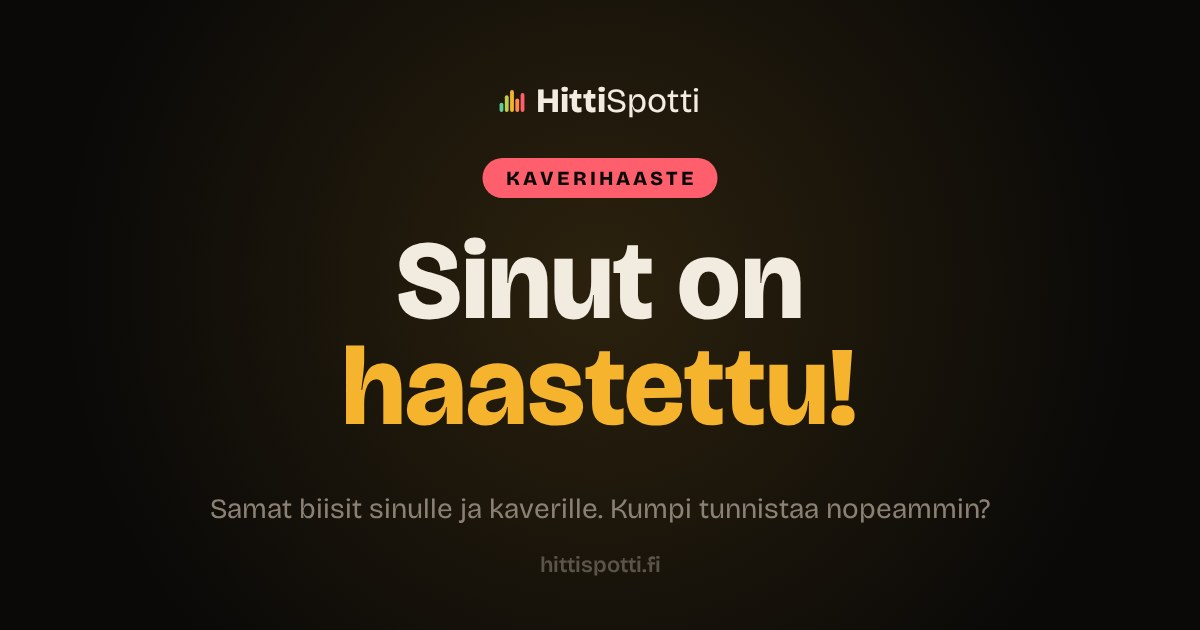
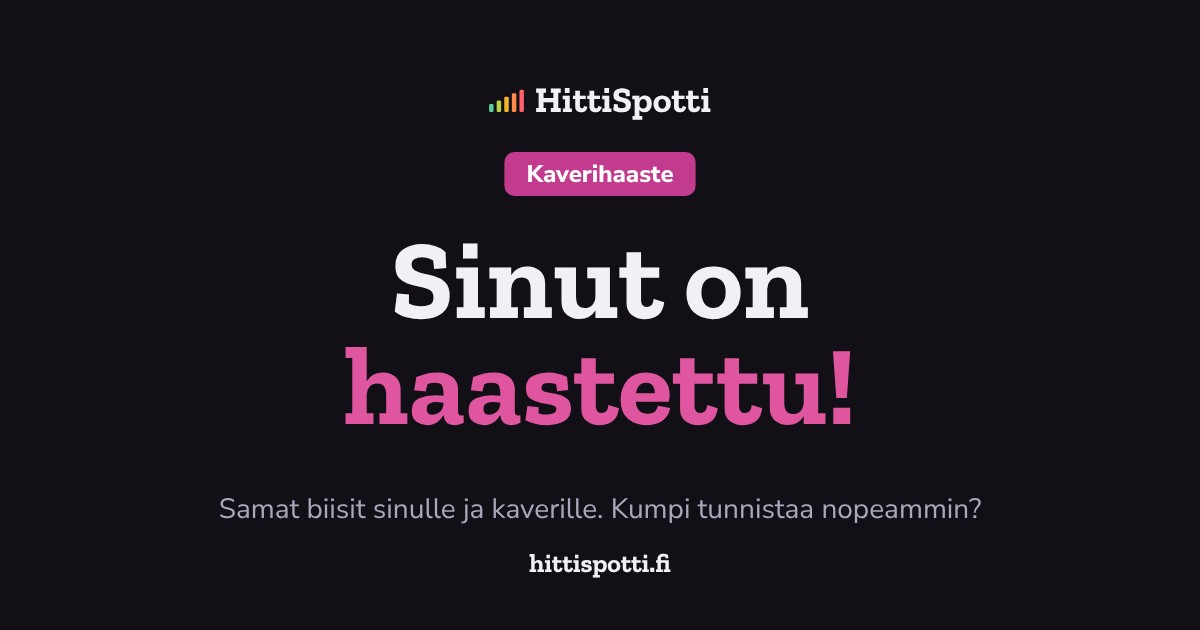
Versio 2.0: Mitä uutta -tiedote ja uudet linkkien esikatselukuvat
Tiedote kertoo uudesta ilmeestä, tummasta ja vaaleasta tilasta,
etusivusta, rajausten uusista paikoista ja haasteen poistosta.
Jakokuva ja haastekuva piirretään uudella ilmeellä.

Claude-Session: https://claude.ai/code/session_0121ZaRWxK9gYVTKwjJaz1Rf

diff --git a/scripts/tee_jakokuva.js b/scripts/tee_jakokuva.js
@@ -20,8 +20,9 @@
  * vaihtui 1953:sta 1949:ään kun Tapsan vuosi korjattiin, eikä se ollut
  * kenenkään mielessä kuvan kannalta.
  *
- * Ulkoasu on sama kuin aiemmassa kuvassa pikselilleen: sama hehku,
- * sanamerkki, otsikko ja pillerit. Muuttuvat vain luvut.
+ * Ulkoasu seuraa pelin ilmettä: tumma pohja, Zilla Slab -otsikot,
+ * Nunito Sans -teksti, tason värinen soitin ja sarjan viisi ruutua
+ * tasopalkkeineen.
  *
  * Canvas eikä HTML-sivun kuvakaappaus, koska canvasissa jokaisen
  * elementin paikka on luku eikä asettelun tulos: kuva pysyy samana vaikka
@@ -51,94 +52,107 @@ function luvut() {
 const tuhannet = (n) => String(n).replace(/\B(?=(\d{3})+(?!\d))/g, " ");
 
 function fonttiCss() {
-  return ["bricolage-latin.woff2", "bricolage-latin-ext.woff2"].map((tiedosto) => {
+  const tiedostot = [
+    ["Zilla Slab", "700", "zilla-slab-700-latin.woff2"],
+    ["Zilla Slab", "700", "zilla-slab-700-latin-ext.woff2"],
+    ["Nunito Sans", "400 800", "nunito-sans-latin.woff2"],
+    ["Nunito Sans", "400 800", "nunito-sans-latin-ext.woff2"],
+  ];
+  return tiedostot.map(([nimi, paino, tiedosto]) => {
     const data = fs.readFileSync(path.join(JUURI, "fonts", tiedosto)).toString("base64");
-    return `@font-face { font-family: "Bricolage Grotesque"; font-weight: 400 800;
+    return `@font-face { font-family: "${nimi}"; font-weight: ${paino};
       src: url(data:font/woff2;base64,${data}) format("woff2"); }`;
   }).join("\n");
 }
+
+/* Yhteiset piirtoapurit sivun sisällä. Merkkijonona, koska evaluate ajaa
+ * ne selaimessa. */
+const APURIT = `
+  const S = '"Zilla Slab", serif', T = '"Nunito Sans", sans-serif';
+  const TV = ["#5ecf9a", "#bcd14a", "#f5b32e", "#ff8a4c", "#ff5f6d"];
+  async function lataaFontit() {
+    await document.fonts.load("700 40px " + S);
+    for (const p of [400, 700, 800]) await document.fonts.load(p + " 40px " + T);
+    await document.fonts.ready;
+    return document.fonts.check("700 40px " + S) && document.fonts.check("800 40px " + T);
+  }
+  // Tasomittari: viisi nousevaa palkkia, tason verran täysiä.
+  function mittari(g, x, y, korkeus, taso, vari) {
+    const lev = korkeus * .2, vali = korkeus * .14;
+    for (let i = 0; i < 5; i++) {
+      const h = korkeus * (.36 + i * .16);
+      g.globalAlpha = i < taso ? 1 : .28;
+      g.fillStyle = vari;
+      g.beginPath(); g.roundRect(x + i * (lev + vali), y + korkeus - h, lev, h, lev * .3); g.fill();
+    }
+    g.globalAlpha = 1;
+    return 5 * lev + 4 * vali;
+  }
+  function sanamerkki(g, x, y, koko, keskelle) {
+    g.font = "700 " + koko + "px " + S;
+    const tw = g.measureText("HittiSpotti").width, mk = koko * .62, vali = koko * .3;
+    const mw = mk * (5 * .2 + 4 * .14);
+    if (keskelle) x -= (mw + vali + tw) / 2;
+    // Merkissä jokainen palkki omalla tasovärillään.
+    for (let i = 0; i < 5; i++) {
+      const lev = mk * .2, v = mk * .14, h = mk * (.36 + i * .16);
+      g.fillStyle = TV[i]; g.beginPath(); g.roundRect(x + i * (lev + v), y - h, lev, h, lev * .3); g.fill();
+    }
+    g.fillStyle = "#f2f0f7"; g.textAlign = "left";
+    g.fillText("HittiSpotti", x + mw + vali, y);
+  }
+`;
 
 async function piirra(alateksti) {
   const selain = await chromium.launch();
   const sivu = await selain.newPage({ viewport: { width: 1200, height: 630 } });
   await sivu.setContent(`<!doctype html><meta charset="utf-8"><style>${fonttiCss()}</style>`);
+  await sivu.addScriptTag({ content: APURIT });
   const kuva = await sivu.evaluate(async (alateksti) => {
-    const N = '"Bricolage Grotesque", sans-serif';
-    // Jokainen paksuus ladataan erikseen: canvas ei odota fonttia itse, ja
-    // lataamaton paksuus piirtyisi hiljaa varafontilla.
-    for (const paksuus of [400, 600, 800]) await document.fonts.load(`${paksuus} 40px ${N}`);
-    await document.fonts.ready;
-
+    const fontti = await lataaFontit();
     const W = 1200, H = 630, R = 88;
     const c = document.createElement("canvas");
     c.width = W; c.height = H;
     const g = c.getContext("2d");
-    g.fillStyle = "#0a0908"; g.fillRect(0, 0, W, H);
-
-    // Sama hehku kuin sivulla, soivan biisin värissä.
-    const hehku = g.createRadialGradient(W * .5, H * .34, 0, W * .5, H * .34, W * .5);
-    hehku.addColorStop(0, "rgba(245,179,46,0.13)");
-    hehku.addColorStop(1, "rgba(245,179,46,0)");
-    g.fillStyle = hehku; g.fillRect(0, 0, W, H);
+    g.fillStyle = "#121016"; g.fillRect(0, 0, W, H);
     g.textBaseline = "alphabetic";
 
-    // Sanamerkki: sama viiden palkin aaltomuoto kuin favicon.svg:ssä.
-    const TV = ["#5ecf9a", "#bcd14a", "#f5b32e", "#ff8a4c", "#ff5f6d"];
-    const MH = [19.6, 34.8, 46, 28.4, 39.6];
-    const mk = 26 / 46;
-    g.lineCap = "round"; g.lineWidth = 8 * mk;
-    MH.forEach((h, i) => {
-      const kx = R + (i * 11 + 4) * mk;
-      g.strokeStyle = TV[i];
-      g.beginPath();
-      g.moveTo(kx, 165 - 4 * mk);
-      g.lineTo(kx, 165 - (h - 4) * mk);
-      g.stroke();
-    });
-    const MX = R + 52 * mk + 14;
-    g.font = `800 40px ${N}`; g.fillStyle = "#f2ebdf";
-    g.fillText("Hitti", MX, 165);
-    const lev = g.measureText("Hitti").width;
-    g.font = `400 40px ${N}`; g.fillText("Spotti", MX + lev, 165);
+    sanamerkki(g, R, 132, 40, false);
 
-    // Otsikko
-    g.font = `800 78px ${N}`;
-    g.fillStyle = "#f2ebdf"; g.fillText("Tunnistatko biisin ", R, 288);
-    const w1 = g.measureText("Tunnistatko biisin ").width;
-    g.fillStyle = "#f5b32e"; g.fillText("0,1", R + w1, 288);
-    g.fillText("sekunnista?", R, 372);
+    // Otsikko slabilla, 0,1 tason vihreällä.
+    g.font = `700 72px ${S}`;
+    g.fillStyle = "#f2f0f7"; g.fillText("Tunnistatko biisin", R, 258);
+    g.font = `800 72px ${T}`; g.fillStyle = "#5ecf9a"; g.fillText("0,1", R, 338);
+    const w1 = g.measureText("0,1 ").width;
+    g.font = `700 72px ${S}`; g.fillStyle = "#f2f0f7"; g.fillText("sekunnista?", R + w1, 338);
 
-    // Alaotsikko ja luvut
-    g.font = `400 30px ${N}`; g.fillStyle = "#8a8073";
-    g.fillText("Musiikkivisa suomalaisilla biiseillä.", R, 448);
-    g.fillText("Uudet viisi joka päivä.", R, 488);
-    g.font = `400 22px ${N}`; g.fillStyle = "#5b544a";
+    g.font = `400 30px ${T}`; g.fillStyle = "#ada7bd";
+    g.fillText("Musiikkivisa suomalaisilla biiseillä.", R, 414);
+    g.fillText("Viisi uutta biisiä joka päivä.", R, 454);
+    g.font = `700 24px ${T}`; g.fillStyle = "#9c96ad";
     g.fillText(alateksti, R, 552);
 
-    // Pillerit oikeaan alanurkkaan
-    const pillerit = [["Helppo", "#5ecf9a", true], ["Vaikea", "#8a8073", false],
-                      ["Mahdoton", "#ff5f6d", false]];
-    g.font = `600 22px ${N}`;
-    let x = W - R;
-    for (const [teksti, vari, tayte] of pillerit.slice().reverse()) {
-      const tw = g.measureText(teksti).width, pw = tw + 48, y = 512, ph = 46;
-      x -= pw;
-      g.beginPath();
-      g.roundRect(x, y, pw, ph, 999);
-      if (tayte) { g.fillStyle = vari; g.fill(); g.fillStyle = "#17120a"; }
-      else { g.strokeStyle = vari; g.lineWidth = 2; g.stroke(); g.fillStyle = vari; }
-      g.fillText(teksti, x + 24, y + 31);
-      x -= 16;
-    }
+    // Soitin oikealla: tason värinen nappi ja sen tummempi reuna.
+    const KX = 935, KY = 268, KR = 142;
+    g.fillStyle = "#3a8a66"; g.beginPath(); g.arc(KX, KY + 14, KR, 0, Math.PI * 2); g.fill();
+    g.fillStyle = "#5ecf9a"; g.beginPath(); g.arc(KX, KY, KR, 0, Math.PI * 2); g.fill();
+    g.fillStyle = "#15121a"; g.beginPath();
+    g.moveTo(KX - 34, KY - 56); g.lineTo(KX + 60, KY); g.lineTo(KX - 34, KY + 56); g.closePath(); g.fill();
 
-    // Tarkistus: jos fontti ei latautunut, "Hitti" mitataan varafontilla ja
-    // leveys poikkeaa. Parempi kaatua kuin julkaista väärällä fontilla.
-    g.font = `800 40px ${N}`;
-    const varmistus = document.fonts.check(`800 40px ${N}`);
-    return { data: c.toDataURL("image/jpeg", 0.88), fontti: varmistus };
+    // Sarjan viisi ruutua tasopalkkeineen soittimen alla.
+    const rw = 62, rh = 50, rv = 10, rx0 = KX - (5 * rw + 4 * rv) / 2, ry = 476;
+    for (let i = 0; i < 5; i++) {
+      const x = rx0 + i * (rw + rv);
+      g.beginPath(); g.roundRect(x, ry, rw, rh, 10);
+      if (i === 0) { g.fillStyle = TV[0]; g.fill(); }
+      else { g.strokeStyle = TV[i]; g.lineWidth = 3; g.stroke(); }
+      const mw = 5 * 4.8 + 4 * 3.4;
+      mittari(g, x + (rw - mw) / 2, ry + 13, 24, i + 1, i === 0 ? "#15121a" : TV[i]);
+    }
+    return { data: c.toDataURL("image/jpeg", 0.9), fontti };
   }, alateksti);
   await selain.close();
-  if (!kuva.fontti) throw new Error("Bricolage Grotesque ei latautunut, kuvaa ei tallennettu");
+  if (!kuva.fontti) throw new Error("Kirjasimet eivät latautuneet, kuvaa ei tallennettu");
   return Buffer.from(kuva.data.split(",")[1], "base64");
 }
 
@@ -157,64 +171,32 @@ async function piirraHaaste() {
   const selain = await chromium.launch();
   const sivu = await selain.newPage({ viewport: { width: 1200, height: 630 } });
   await sivu.setContent(`<!doctype html><meta charset="utf-8"><style>${fonttiCss()}</style>`);
+  await sivu.addScriptTag({ content: APURIT });
   const kuva = await sivu.evaluate(async () => {
-    const N = '"Bricolage Grotesque", sans-serif';
-    for (const paksuus of [400, 600, 800]) await document.fonts.load(`${paksuus} 40px ${N}`);
-    await document.fonts.ready;
-
+    const fontti = await lataaFontit();
     const W = 1200, H = 630, KX = W / 2, NELIO = 600;
     const c = document.createElement("canvas");
     c.width = W; c.height = H;
     const g = c.getContext("2d");
-    g.fillStyle = "#0a0908"; g.fillRect(0, 0, W, H);
-    const hehku = g.createRadialGradient(KX, H * .45, 0, KX, H * .45, W * .45);
-    hehku.addColorStop(0, "rgba(245,179,46,0.14)");
-    hehku.addColorStop(1, "rgba(245,179,46,0)");
-    g.fillStyle = hehku; g.fillRect(0, 0, W, H);
+    g.fillStyle = "#121016"; g.fillRect(0, 0, W, H);
     g.textBaseline = "alphabetic";
 
-    // Sanamerkki keskelle: palkit ja nimi yhtenä rivinä.
-    const TV = ["#5ecf9a", "#bcd14a", "#f5b32e", "#ff8a4c", "#ff5f6d"];
-    const MH = [19.6, 34.8, 46, 28.4, 39.6];
-    const mk = 22 / 46, Y = 112;
-    g.font = `800 34px ${N}`;
-    const hitti = g.measureText("Hitti").width;
-    g.font = `400 34px ${N}`;
-    const spotti = g.measureText("Spotti").width;
-    const merkinLeveys = 52 * mk, vali = 12;
-    let x = KX - (merkinLeveys + vali + hitti + spotti) / 2;
-    g.lineCap = "round"; g.lineWidth = 8 * mk;
-    MH.forEach((h, i) => {
-      const kx = x + (i * 11 + 4) * mk;
-      g.strokeStyle = TV[i];
-      g.beginPath();
-      g.moveTo(kx, Y - 4 * mk);
-      g.lineTo(kx, Y - (h - 4) * mk);
-      g.stroke();
-    });
-    x += merkinLeveys + vali;
-    g.fillStyle = "#f2ebdf";
-    g.font = `800 34px ${N}`; g.fillText("Hitti", x, Y);
-    g.font = `400 34px ${N}`; g.fillText("Spotti", x + hitti, Y);
+    sanamerkki(g, KX, 112, 36, true);
 
-    // Pilleri: sama punainen kuin valikon uutta-merkissä.
+    // Merkki kaverihaasteen magentalla, kuten pelin valikossa.
     g.textAlign = "center";
-    g.font = `800 20px ${N}`;
-    g.letterSpacing = "3px";
-    const pTeksti = "KAVERIHAASTE";
-    const pw = g.measureText(pTeksti).width + 44, ph = 40, py = 158;
-    g.beginPath();
-    g.roundRect(KX - pw / 2, py, pw, ph, 999);
-    g.fillStyle = "#ff5f6d"; g.fill();
-    g.fillStyle = "#0a0908";
-    g.fillText(pTeksti, KX + 1.5, py + 27);
-    g.letterSpacing = "0px";
+    g.font = `800 24px ${T}`;
+    const pTeksti = "Kaverihaaste";
+    const pw = g.measureText(pTeksti).width + 44, ph = 44, py = 152;
+    g.beginPath(); g.roundRect(KX - pw / 2, py, pw, ph, 10);
+    g.fillStyle = "#c23b8f"; g.fill();
+    g.fillStyle = "#ffffff"; g.fillText(pTeksti, KX, py + 30);
 
     // Otsikko: pienennetään kunnes pisin rivi mahtuu keskineliöön.
     let koko = 112;
-    const rivit = [["Sinut on", "#f2ebdf"], ["haastettu!", "#f5b32e"]];
+    const rivit = [["Sinut on", "#f2f0f7"], ["haastettu!", "#e0559f"]];
     for (;;) {
-      g.font = `800 ${koko}px ${N}`;
+      g.font = `700 ${koko}px ${S}`;
       const levein = Math.max(...rivit.map(([t]) => g.measureText(t).width));
       if (levein <= NELIO - 40 || koko <= 60) break;
       koko -= 2;
@@ -222,21 +204,20 @@ async function piirraHaaste() {
     g.fillStyle = rivit[0][1]; g.fillText(rivit[0][0], KX, 318);
     g.fillStyle = rivit[1][1]; g.fillText(rivit[1][0], KX, 318 + koko * 0.95);
 
-    g.font = `400 28px ${N}`; g.fillStyle = "#8a8073";
+    g.font = `400 28px ${T}`; g.fillStyle = "#ada7bd";
     g.fillText("Samat biisit sinulle ja kaverille. Kumpi tunnistaa nopeammin?", KX, 518);
-    g.font = `600 22px ${N}`; g.fillStyle = "#5b544a";
+    g.font = `700 26px ${S}`; g.fillStyle = "#f2f0f7";
     g.fillText("hittispotti.fi", KX, 572);
-
-    return { data: c.toDataURL("image/jpeg", 0.88), fontti: document.fonts.check(`800 40px ${N}`) };
+    return { data: c.toDataURL("image/jpeg", 0.9), fontti };
   });
   await selain.close();
-  if (!kuva.fontti) throw new Error("Bricolage Grotesque ei latautunut, kuvaa ei tallennettu");
+  if (!kuva.fontti) throw new Error("Kirjasimet eivät latautuneet, kuvaa ei tallennettu");
   return Buffer.from(kuva.data.split(",")[1], "base64");
 }
 
 (async () => {
   const { maara, alku, loppu } = luvut();
-  const alateksti = `${tuhannet(maara)} suomibiisiä · ${alku}–${loppu}`;
+  const alateksti = `${tuhannet(maara)} suomibiisiä vuosilta ${alku}–${loppu}`;
   const kohde = path.join(JUURI, "jakokuva.jpg");
   fs.writeFileSync(kohde, await piirra(alateksti));
   console.log(`jakokuva.jpg: "${alateksti}", ${Math.round(fs.statSync(kohde).size / 1024)} kt`);

diff --git a/index.html b/index.html
@@ -30,7 +30,7 @@
        Ilman tätä päivitetty kuva (scripts/tee_jakokuva.js) ei näkyisi
        jaetuissa linkeissä, vaan vanha luku jäisi elämään välimuisteihin.
        Numero kulkee muiden ?v=-merkintöjen mukana julkaisussa. -->
-  <meta property="og:image" content="https://hittispotti.fi/jakokuva.jpg?v=250">
+  <meta property="og:image" content="https://hittispotti.fi/jakokuva.jpg?v=251">
   <meta property="og:image:type" content="image/jpeg">
   <meta property="og:image:width" content="1200">
   <meta property="og:image:height" content="630">
@@ -41,18 +41,18 @@
        kuvakkeesta kiinni omassa välimuistissaan sitkeämmin kuin mistään
        muusta, eikä pelkkä uusi tiedostosisältö samassa osoitteessa riitä
        vaihtamaan sitä. -->
-  <link rel="icon" href="favicon.svg?v=250" type="image/svg+xml">
+  <link rel="icon" href="favicon.svg?v=251" type="image/svg+xml">
   <!-- iOS ei tue SVG:tä kotinäytön kuvakkeena: SVG:llä se otti sivusta
        ruudunkaappauksen kuvakkeen sijaan. 180 px on iPhonen koko. -->
-  <link rel="apple-touch-icon" sizes="180x180" href="icon-180.png?v=250">
-  <link rel="icon" type="image/png" sizes="192x192" href="icon-192.png?v=250">
-  <link rel="manifest" href="manifest.webmanifest?v=250">
+  <link rel="apple-touch-icon" sizes="180x180" href="icon-180.png?v=251">
+  <link rel="icon" type="image/png" sizes="192x192" href="icon-192.png?v=251">
+  <link rel="manifest" href="manifest.webmanifest?v=251">
   <meta name="apple-mobile-web-app-capable" content="yes">
   <meta name="apple-mobile-web-app-status-bar-style" content="black-translucent">
   <meta name="apple-mobile-web-app-title" content="HittiSpotti">
   <link rel="preload" href="fonts/nunito-sans-latin.woff2" as="font" type="font/woff2" crossorigin>
   <link rel="preload" href="fonts/zilla-slab-700-latin.woff2" as="font" type="font/woff2" crossorigin>
-  <link rel="stylesheet" href="style.css?v=250">
+  <link rel="stylesheet" href="style.css?v=251">
 
   <script type="application/ld+json">
   {
@@ -1104,7 +1104,7 @@
 
   <div id="toast" class="toast" role="status" aria-live="polite" hidden></div>
 
-  <script src="app.js?v=250"></script>
+  <script src="app.js?v=251"></script>
 
   <!-- Kävijälaskenta: ei evästeitä, ei henkilötietoja, ei seurantaa yli
        sivustorajojen – siksi tämä ei vaadi suostumusikkunaa. Ladataan

diff --git a/app.js b/app.js
@@ -306,7 +306,7 @@
    * muodossa "versio 1.0 (100)": pelaaja tunnistaa alun, ja suluista näkee
    * täsmälleen mikä rakenne hänellä oli. */
   /* 1.1: ArtistiSpotti, Kaverihaaste ja 144 uutta biisiä (27.9.2026). */
-  const TUOTEVERSIO = "1.3";
+  const TUOTEVERSIO = "2.0";
 
   /* Mitä uutta -tiedote.
    *
@@ -337,20 +337,19 @@
    * koska hän ei ole nähnyt sitä arvattavana kertaakaan. Yksi luku siis,
    * summana. */
   const UUTTA = {
-    /* Uusi tunnus, joten myös 1.2:n tiedotteen nähneet saavat tämän
-     * kerran. */
-    id: "2026-10-20-versio-1.3",
-    /* Viikko kuten edelliselläkin kerralla. */
-    loppuu: "2026-10-27",
-    /* Tärkein ensin. Biisimäärä on se minkä jokainen huomaa, tasot ja
-     * toistot selittävät miksi päivän biisit tuntuvat erilaisilta.
-     * Arkisto on linkki, koska sitä ei löydä pelistä muuten kuin
-     * vierittämällä alapalkkiin. */
+    /* Uusi tunnus, joten kaikki saavat tämän kerran. */
+    id: "2026-11-versio-2.0",
+    /* Noin viikko julkaisusta. Tarkistetaan julkaisupäivänä. */
+    loppuu: "2026-11-19",
+    /* Tärkein ensin: ilme on se minkä jokainen huomaa heti, tila ja
+     * etusivu ovat uusia asioita, loput kertovat mihin tutut toiminnot
+     * siirtyivät, jottei kukaan jää etsimään niitä valikosta. */
     kohdat: [
-      "<b>Yli 2 000 biisiä.</b> Peliin tuli 92 uutta biisiä, monet pelaajien toiveista",
-      "<b>Vaikeustasot uusiksi.</b> 373 biisiä vaihtoi tasoa pelaajien tulosten perusteella. Helppo on nyt oikeasti helppo ja Mahdoton oikeasti mahdoton",
-      "<b>Ei enää toistoja.</b> Jo pelattu biisi ei palaa päivän biiseihin puoleen vuoteen",
-      '<b>Arkisto.</b> Menneiden päivien biisit ja artistit löytyvät nyt <a href="/arkisto">arkistosta</a>',
+      "<b>Uusi ilme.</b> Selkeämpi ulkoasu, ja vaikeustaso näkyy nyt myös palkkeina",
+      "<b>Tumma ja vaalea tila.</b> Peli seuraa puhelimen asetusta, ja tilan voi vaihtaa valikon alalaidasta",
+      "<b>Etusivu.</b> Kun päivän biisit on pelattu, muut pelit ovat heti tarjolla",
+      "<b>Rajaukset pelin sisällä.</b> Vapaan pelin vuosikymmenet ja tyylit löytyvät Muuta-napista, ArtistiSpotin rajaton peli otsikon alta",
+      "<b>Kaverihaasteen voi poistaa.</b> Kesken jäänyt haaste ei enää jää roikkumaan",
     ],
   };
 

diff --git a/haaste/index.html b/haaste/index.html
@@ -39,14 +39,14 @@
   <meta property="og:description" content="Kaveri haastoi sinut HittiSpottiin. Samat biisit teille molemmille: tunnista nopeammin ja voita.">
   <!-- Kuva: scripts/tee_jakokuva.js. Versio kulkee muiden ?v=-merkintöjen
        mukana samasta syystä kuin index.html:ssä. -->
-  <meta property="og:image" content="https://hittispotti.fi/haastekuva.jpg?v=250">
+  <meta property="og:image" content="https://hittispotti.fi/haastekuva.jpg?v=251">
   <meta property="og:image:type" content="image/jpeg">
   <meta property="og:image:width" content="1200">
   <meta property="og:image:height" content="630">
   <meta property="og:image:alt" content="HittiSpotti-kaverihaaste: Sinut on haastettu!">
   <meta name="twitter:card" content="summary_large_image">
 
-  <link rel="icon" href="../favicon.svg?v=250" type="image/svg+xml">
+  <link rel="icon" href="../favicon.svg?v=251" type="image/svg+xml">
 
   <script>
     /* Sivuston juuri johdetaan omasta osoitteesta eikä kirjoiteta, jotta

diff --git a/sw.js b/sw.js
@@ -7,7 +7,7 @@
  * Välimuistin nimessä on versio. Kun se vaihtuu, vanha poistetaan kokonaan,
  * joten jumiin jäänyttä välimuistia ei pääse syntymään.
  */
-const VERSIO = "hittispotti-v250";
+const VERSIO = "hittispotti-v251";
 
 /* Sovelluksen juuri. Vain tähän osoitettu navigointi kelpaa offline-varasivuksi. */
 const JUURI = new URL("./", self.location).pathname;
